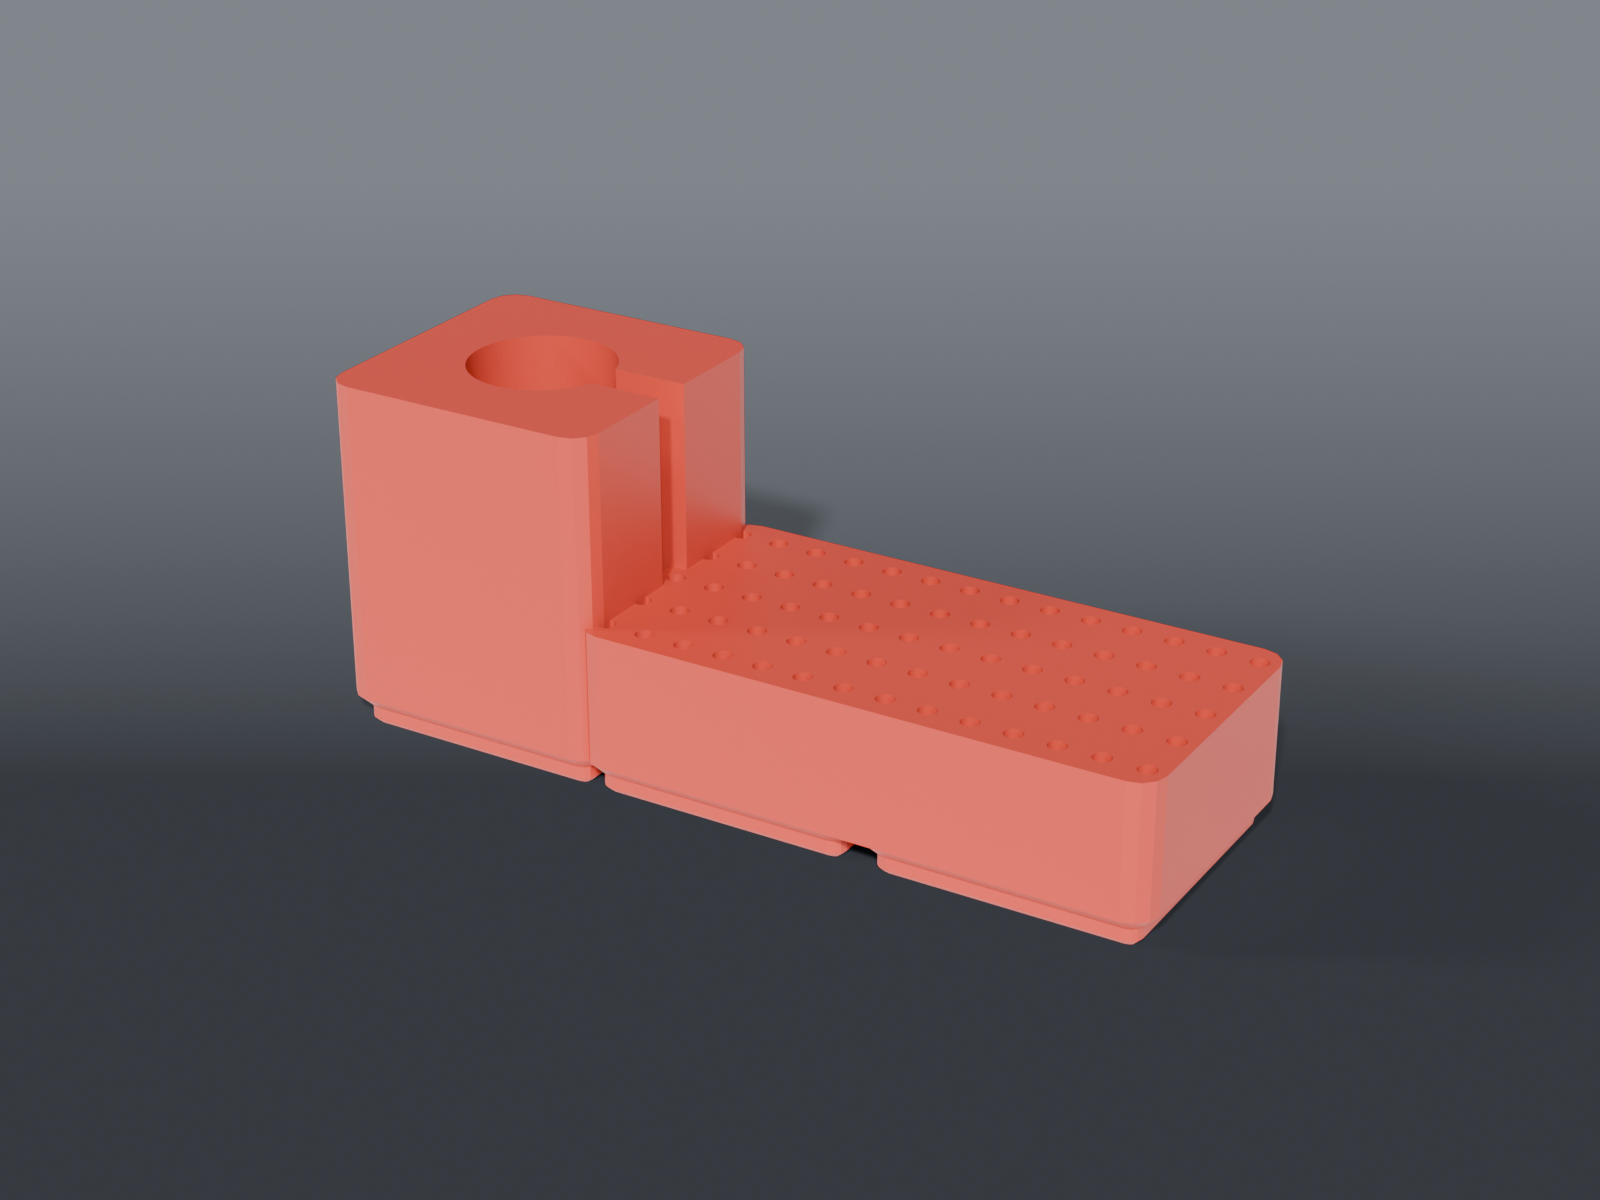
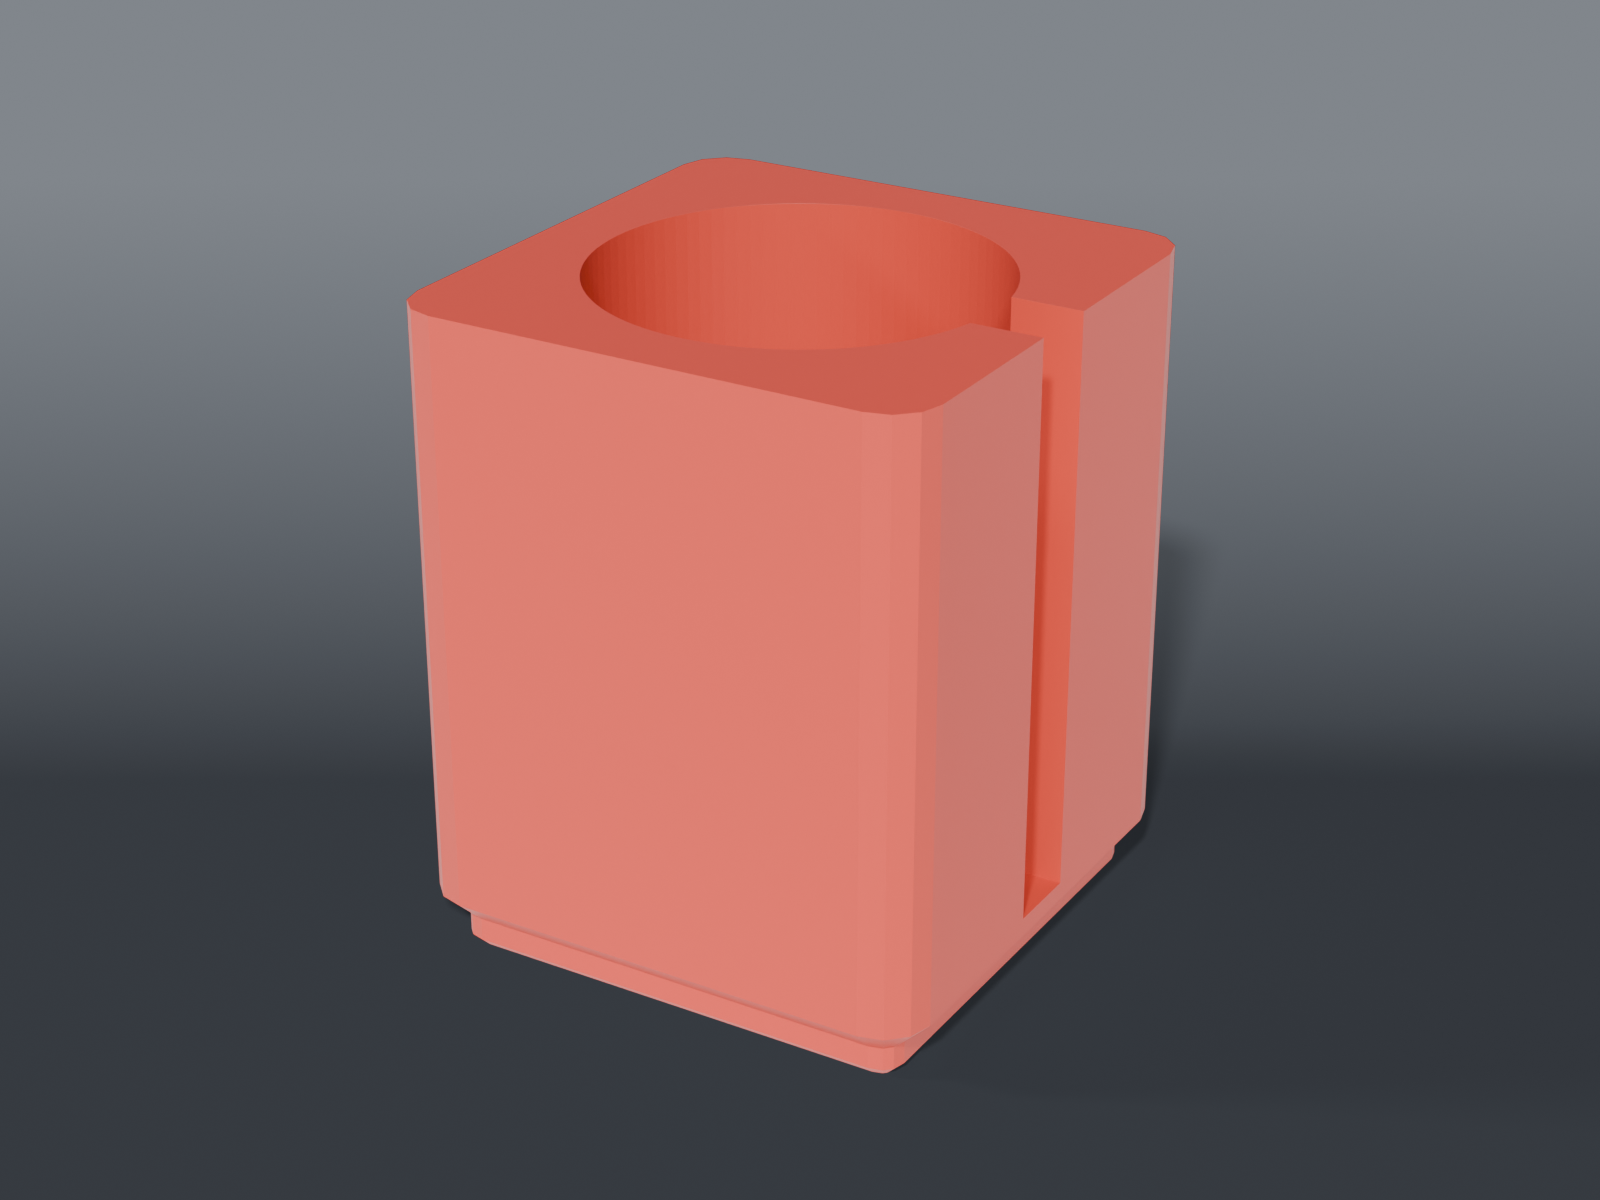
fix(rotary): re-attribute the cup to the engraver, bore the HARDELL to 30, 70 bit holes to 15

Changed region(s): [[0.1875, 0.1233, 0.8125, 0.8942]]

diff --git a/rotary-tool-station/README.md b/rotary-tool-station/README.md
@@ -6,9 +6,11 @@
 
 ## Design notes
 
-**The tool stands vertical in a 1 × 1 cup.** It's 131 mm long; the cup captures the bottom ~45 mm and the rest sticks up, like a pen in a pen cup. Laying it flat would need a 4 × 1 trough — four times the bench for the same tool.
+**The tool stands vertical in a 1 × 1 cup**, like a pen in a pen cup, capturing the bottom 45 mm. Laying a rotary tool flat needs a 4 × 1 trough — four times the bench for the same tool.
 
-**Cord slot.** The tool is corded (barrel jack), so the cup has a channel open to the rim for the lead. Without it the cord drapes over the edge and levers the tool sideways.
+(The "131 mm long" that used to appear here was the *engraver's* length, carried over with the mis-attributed diameter. The HARDELL's own length has never been measured, and doesn't need to be — see below.)
+
+**Cord slot.** The cup has a channel open to the rim for the lead — without one the cord drapes over the edge and levers the tool sideways. ⚠ Its 6 mm width was measured on the *engraver's* barrel jack and is unverified for this tool.
 
 **Stored collet-down** so the burr is shrouded. A pointed bit at hand height on a reach-across bench is a snag you notice exactly once.
 
@@ -24,33 +26,47 @@ The old `BIT_CLR = 0.25` guess cut **2.631** — *under* the smallest hole that 
 
 
 
-## 🛑 Which tool is 19.66 mm?
+## The cup was cut for the wrong tool for months
 
-`TOOL_D = 19.66` / `TOOL_L = 131.36` are labelled HARDELL and were recorded before the small
-engraver was bought — which argues they really are the HARDELL's. But as of 2026-08-25 the
-engraver reads **~20 mm across** and the HARDELL is reported to be **bigger**. A 0.34 mm gap
-between them; those cannot all hold.
+`TOOL_D = 19.66` sat here labelled HARDELL, and `bin_tool` was bored to it. On 2026-08-25 the
+HARDELL measured **28 mm at the base, tapering to ≈30** — so 19.66 was never this tool. It's the
+small engraver's, matching its ~20 mm to within 0.34 mm.
 
-Either 19.66 is the engraver's diameter wearing the HARDELL's label, or the HARDELL isn't bigger.
-**`bin_tool` is bored to 19.66 and may be cut for the wrong tool.**
+The old cup was watertight, 2-manifold, and exactly the size it claimed. It simply would not have
+taken the tool named on it. **Nothing in the toolchain catches a right-shaped part cut for the
+wrong object** — not the mesh check, not the asserts, not CI. Only a caliper on the right tool
+does.
 
-Resolving it takes both tools on calipers in one pass, together, with a note saying which is
-which. The numbers stay put until then — changing them on a guess moves the error rather than
-fixing it — and no cup gets built for the other tool.
+So the file moved rather than being deleted — it's now
+[`../engraver-station/bin_tool_engraver.scad`](../engraver-station/), because the part was always
+correct and only the label was wrong. `bin_tool` here is new, bored to the real 30.
 
-**The bit bore is unaffected.** Bits are bits, and both tools take the same ones.
+**It's a taper, so the bore goes to the widest section (30), not the base (28)** — cut to the 28
+and the tool jams partway down.
+
+**Capture depth is a comfort choice, not a fit constraint.** The HARDELL's overall length has
+never been measured and doesn't need to be: the bin latches into the grid so nothing tips, and
+with 1 mm of clearance in a 45 mm bore the tool leans about 1.3°. Override with
+`-D TOOL_CAPTURE=` once you've held the printed one.
+
+> ⚠ **`CORD_W = 6` is inherited and unverified for this tool.** That barrel-jack slot was
+> measured on the engraver, back when the two were conflated. A slot too narrow stops the tool
+> seating — check the HARDELL's lead before printing, or just widen it, since an oversized notch
+> costs nothing.
 
 ## Parts
 
 | File | What | Size |
 |---|---|---|
 | `coupons/bit_fit_gauge.scad` | **Print first** — five test holes, 2.5–2.9 mm, engraved | 95 × 24 × 9 mm |
-| `bin_tool.scad` | 1 × 1 cup, tool vertical, cord slot | 42 × 42 × 51 mm |
-| `bin_bits.scad` | 2 × 1 block, 14 × 5 grid of 3/32″ holes | 84 × 42 × 24 mm |
+| `bin_tool.scad` | 1 × 1 cup, HARDELL vertical (⌀30 bore), cord slot | 42 × 42 × 51 mm |
+| `bin_bits.scad` | 1 × 1 block, 5 × 3 grid, 15 bit holes | 42 × 42 × 24 mm |
 
-**70 is still an upper bound, not a count.** Confirmed 2026-08-25 that the kit is mixed: extra bits, grinding wheels, cut-off wheels and sanders. The wheels are mandrel-mounted and don't want a shank hole at all — the largest cut-off wheel is **25 mm** across and needs somewhere flat, not a bore.
+**15 holes, counted 2026-08-25.** The kit came with about 15 shank bits, a stack of cut-off wheels and ~20 sanding disks.
 
-So this grid is oversized by an unknown amount. Count the shank-mounted pieces and drop `BIT_COLS` / `BIT_ROWS`; the engraver's block went 70 → 35 on exactly that correction.
+It was 70 on a 2×1 — an upper bound from a 69-piece set, on the assumption every piece was shank-mounted. Most aren't, and the block was oversized by more than 4×. 5 × 3 on a 1×1 at an 8.4 × 14 pitch gives a cell back. The engraver's block took exactly this correction, 70 → 35.
+
+The wheels and sanding disks are mandrel-mounted and want a **pocket, not a bore** — largest wheel is 25 mm across. Their bin is blocked on one measurement: the collet wrench's L × W × thickness.
 
 Built on [`lib/vessel.scad`](../lib/vessel.scad) (the cup) and [`lib/syringe.scad`](../lib/syringe.scad) (the bore grid — the same module that racks syringes; a bit block is that with a smaller pitch).
 

diff --git a/engraver-station/README.md b/engraver-station/README.md
@@ -15,6 +15,7 @@ Gridfinity storage for the **small engraver rotary tool** — not the HARDELL.
 | File | What | Size |
 |---|---|---|
 | `bin_bits_engraver.scad` | 1 × 1 block, 7 × 5 grid, 35 bit holes | 42 × 42 × 24 mm |
+| `bin_tool_engraver.scad` | 1 × 1 cup, tool vertical (⌀19.66 bore), cord slot | 42 × 42 × 51 mm |
 
 ## The bore is measured, not derived
 
@@ -40,16 +41,23 @@ Counted, not estimated: **35** bits. 7 × 5 at a 6.0 × 8.4 mm pitch fits a 1×1
 material between bores. `BIT_COLS` / `BIT_ROWS` are parametric and an assert fires if the grid
 ever drops below `BIT_COUNT`.
 
-## Still blocked — the tool cup
+## The cup arrived by being mislabelled
 
-No cup yet. It needs three numbers, and **borrowing the HARDELL's is exactly the mistake this
-directory exists to prevent**:
+`bin_tool_engraver.scad` moved here from `rotary-tool-station/bin_tool.scad` on 2026-08-25. It had
+carried the HARDELL's name and a ⌀19.66 bore for months — but the HARDELL measures **28 at the
+base tapering to ≈30**, so 19.66 was never it. It matches this tool's ~20 mm across to within
+0.34 mm.
 
-| Need | Sets |
-|---|---|
-| Body ⌀ at its widest | the cup bore |
-| Overall length | `TOOL_CAPTURE`, about a third of it |
-| Corded? lead ⌀ | whether there's a cord slot at all, and how wide |
+The part was always correct; only the label was wrong, so it moved rather than being rebuilt. Had
+it been printed under the old name it would simply not have taken the HARDELL, and **no mesh
+check, assert, or CI job could have caught that** — it was watertight, manifold, and exactly the
+size it claimed to be. Only a caliper on the right tool finds this.
+
+`TOOL_L = 131.36` came with it and is re-attributed on the same reasoning: recorded beside the
+19.66 in one session. That's inference, not a reading.
+
+> 🔎 **One check settles it.** Put a tape on this tool end to end. **≈131 confirms** both numbers;
+> anything else and the pair needs splitting.
 
 ## Source
 
